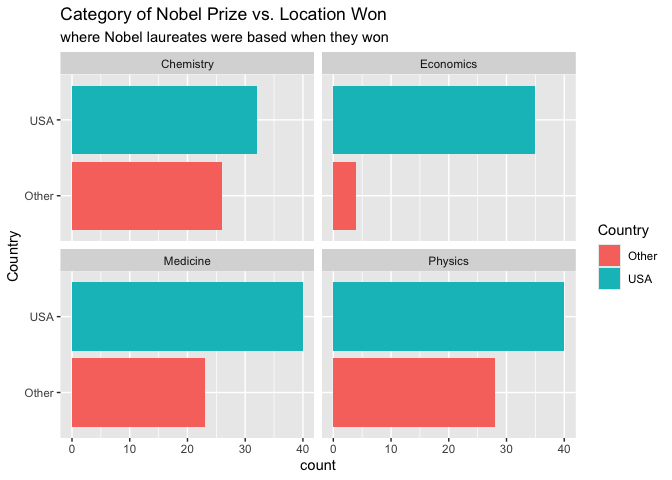
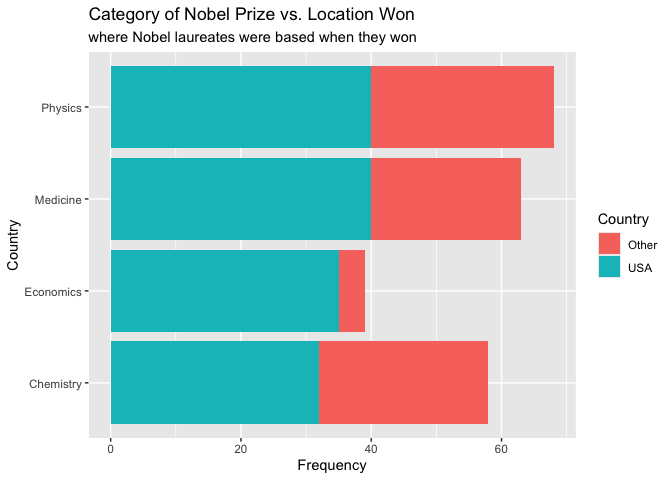
edited answers for ex 3 and changed code structure

diff --git a/lab-03.md b/lab-03.md
@@ -26,7 +26,11 @@ person/laureate.
 ### Exercise 2
 
 ``` r
-nobel_living <- nobel %>% filter(is.na(died_date), !is.na(country), gender != "org") #create new filtered df
+nobel_living <- nobel %>% 
+  filter(is.na(died_date), 
+         !is.na(country), 
+         gender != "org"
+  )
 ```
 
 ### Exercise 3
@@ -37,15 +41,31 @@ support the Buzzfeed article claim that most living Nobel laureates were
 based in the US when they won their prizes.
 
 ``` r
-nobel_living <- nobel_living %>% mutate(country_us = if_else(country == "USA", "USA", "Other")) #create new variable based on if statement: if country = "USA", set country_us to "USA", if not, set to "Other"
+nobel_living <- nobel_living %>% 
+  mutate(country_us = if_else(country == "USA", "USA", "Other")
+  ) 
+#create new variable based on if statement: if country = "USA", set country_us to "USA", if not, set to "Other"
 ```
 
 ``` r
-nobel_living_science <- nobel_living %>% filter(category %in% c("Physics", "Medicine", "Chemistry", "Economics")) #filter by observations within a specific column (category)
+nobel_living_science <- nobel_living %>% 
+  filter(category %in% c("Physics", "Medicine", "Chemistry", "Economics")
+  ) 
+#filter by observations within a specific column (category)
 ```
 
 ``` r
-nobel_living_science %>% ggplot(mapping = aes(x = country_us, fill = country_us)) + geom_bar() + facet_wrap(~category) + labs(title = "Category of Nobel Prize vs. Location Won", subtitle = "where Nobel laureates were based when they won", x = "Country", fill = "Country") + coord_flip() 
+nobel_living_science %>% 
+  ggplot(aes(x = category, fill = country_us)) + 
+  geom_bar() + 
+  labs(
+    title = "Category of Nobel Prize vs. Location Won",
+    subtitle = "where Nobel laureates were based when they won", 
+    x = "Country", 
+    y = "Frequency", 
+    fill = "Country"
+  ) + 
+  coord_flip()
 ```
 
 ![](lab-03_files/figure-gfm/bar_plot-1.png)<!-- -->
@@ -53,7 +73,9 @@ nobel_living_science %>% ggplot(mapping = aes(x = country_us, fill = country_us)
 ### Exercise 4
 
 ``` r
-born_country_us <- nobel_living_science %>% mutate(born_country_us = if_else(born_country == "USA", "USA", "Other"))
+born_country_us <- nobel_living_science %>% 
+  mutate(born_country_us = if_else(born_country == "USA", "USA", "Other")
+  )
 ```
 
 …
